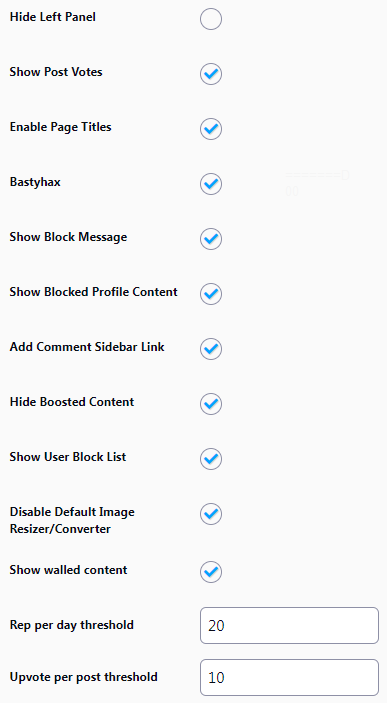
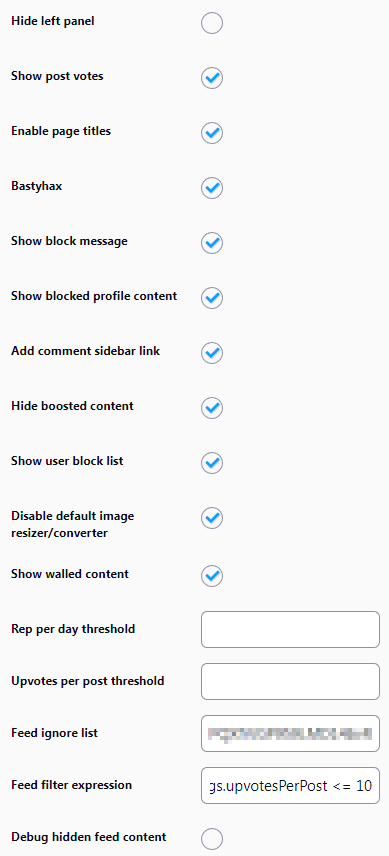
beta changes
add debug info for deleted posts

diff --git a/Pocketnet Tools beta.user.js b/Pocketnet Tools beta.user.js
@@ -210,7 +210,7 @@ See README.md on the Github page for full description of features
             value: "",
         },
         feedFilterParam = {
-            name: "Feed filter",
+            name: "Feed filter expression",
             id: "feedfilter",
             type: "STRINGANY",
             value: "",
@@ -300,6 +300,14 @@ See README.md on the Github page for full description of features
                     });
                     break;
                 case "share":
+
+                    if (e.data.share.deleted) {
+                        let elRemove = e.el.find("div.removeDescription");
+                        elRemove.css("color","red");
+                        elRemove.append(`<ul>${Array.from(e.data.share.deleteReasons.map(x=> `<li>${x}</li>`)).join("")}</ul>`);
+                        break;
+                    }
+
                     /*
                     Remove blocking class so that you can still view the posts and comment
                     sections of users you've blocked
@@ -433,6 +441,7 @@ See README.md on the Github page for full description of features
         x._import = function(e) {
             __import(e);
             x.dorkynuke = e.dorkynuke;
+            x.deleteReasons = e.deleteReasons;
         }
 
         return x;
@@ -776,6 +785,10 @@ See README.md on the Github page for full description of features
                                         if (!args.belowThresholds || ignore || filtered) {
                                             if (debughiddenfeedcontent) {
                                                 args.share.deleted = true;
+                                                args.share.deleteReasons = [];
+                                                if (!args.belowThresholds) args.share.deleteReasons.push("Exceeded thresholds");
+                                                if (ignore) args.share.deleteReasons.push("Address ignore list");
+                                                if (filtered) args.share.deleteReasons.push(feedFilterParam.name);
                                             } else {
                                                 args.share.dorkynuke = true;
                                             }
